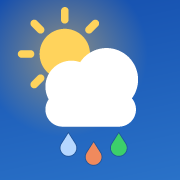
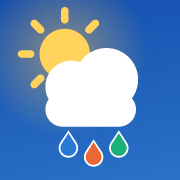
App heet "Weer"; druppels in precies de kleuren van de modelgroepen
- Naam op het beginscherm, in het manifest en in de titel: "Weer".
- De drie druppels in het icoon hebben nu exact de seriekleuren van de
  pagina (globaal, regionaal, referentie) en hetzelfde witte randje als de
  stippen bij "Spreiding", zodat het icoon aansluit op wat je in de app ziet.

Claude-Session: https://claude.ai/code/session_01ANiSanyywRTqeASP7aKJiR

Changed region(s): [[0.3056, 0.7222, 0.4444, 0.8889], [0.5833, 0.7222, 0.7222, 0.8889], [0.4444, 0.7778, 0.5833, 0.9444]]

diff --git a/index.html b/index.html
@@ -3,7 +3,7 @@
   <head>
     <meta charset="utf-8" />
     <meta name="viewport" content="width=device-width, initial-scale=1, viewport-fit=cover" />
-    <title>Weer op locatie — Heerlen</title>
+    <title>Weer</title>
     <meta
       name="description"
       content="Alle weermodellen naast elkaar voor vandaag of morgen in Heerlen, met per model de uitleg waarom het meedoet."
@@ -14,7 +14,7 @@
     <meta name="apple-mobile-web-app-capable" content="yes" />
     <meta name="mobile-web-app-capable" content="yes" />
     <meta name="apple-mobile-web-app-status-bar-style" content="default" />
-    <meta name="apple-mobile-web-app-title" content="Weer Heerlen" />
+    <meta name="apple-mobile-web-app-title" content="Weer" />
     <meta name="format-detection" content="telephone=no" />
     <link rel="icon" href="icons/favicon.svg" type="image/svg+xml" />
     <link rel="apple-touch-icon" sizes="180x180" href="icons/apple-touch-icon.png" />

diff --git a/js/app.js b/js/app.js
@@ -67,7 +67,7 @@ function vulKop() {
   knoppen
     .querySelectorAll('button')
     .forEach((b) => b.setAttribute('aria-pressed', String(b.dataset.dag === DAG)));
-  document.title = `${DAG === 'morgen' ? 'Morgen' : 'Vandaag'} in ${LOCATION.naam} — Weer op locatie`;
+  document.title = `${DAG === 'morgen' ? 'Morgen' : 'Vandaag'} in ${LOCATION.naam} — Weer`;
 }
 
 function zetStatus(tekst, isFout = false) {

diff --git a/README.md b/README.md
@@ -108,7 +108,7 @@ Dezelfde controle loopt als GitHub Action — handmatig te starten via *Actions 
 
 ## Iconen
 
-Het icoon is een gewoon weericoon, getekend zoals de pagina: de blauwe lucht van de bovenste kaart, het zonnetje en de wolk uit de app. De twist: elke regendruppel heeft een eigen kleur, zoals elk model zijn eigen bui voorspelt. Er staat geen plaatsnaam in, dus het past bij elke plek. De iconen worden gegenereerd, niet met de hand getekend:
+Op het beginscherm heet de app **Weer**. Het icoon is een gewoon weericoon, getekend zoals de pagina: de blauwe lucht van de bovenste kaart, het zonnetje en de wolk uit de app. De twist: de drie regendruppels zijn de drie modelgroepen, in dezelfde kleuren en met hetzelfde witte randje als de stippen bij *Spreiding* (blauw globaal, oranje regionaal, groen referentie). Er staat geen plaatsnaam in, dus het past bij elke plek. De iconen worden gegenereerd, niet met de hand getekend:
 
 ```bash
 node scripts/maak-iconen.mjs
